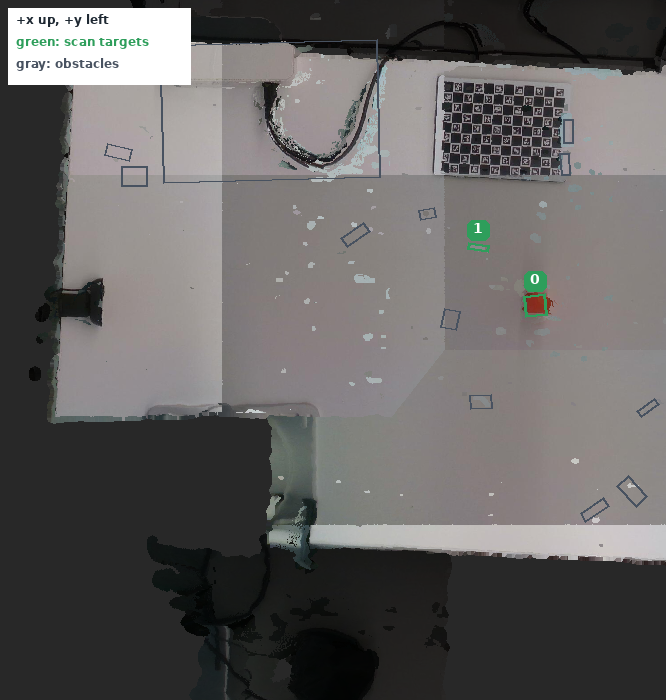
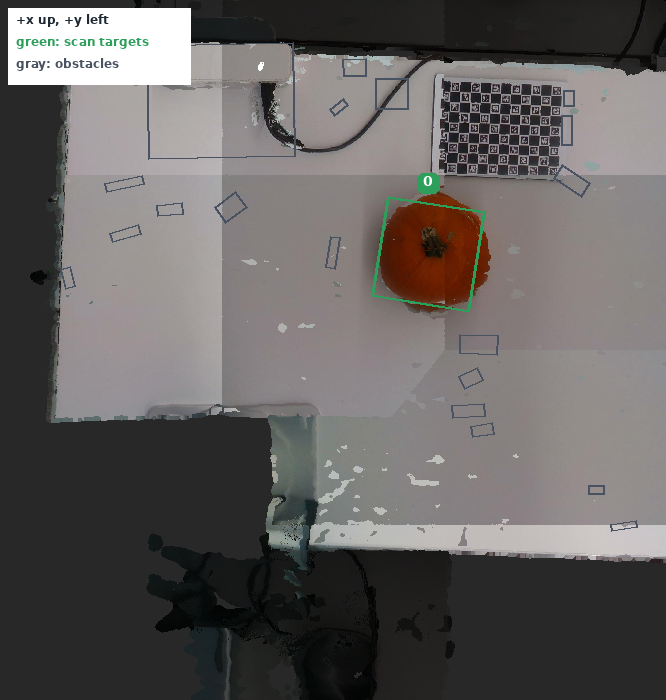
rearranging some of the readme

diff --git a/recon/pipeline.py b/recon/pipeline.py
@@ -913,3 +913,24 @@ def save_mount(config: Config, mount: np.ndarray, source: str) -> Path:
                                 "note": "Camera pose relative to the arm's end (mm). Used for every move and capture."},
                                indent=2) + "\n")
     return path
+
+
+def prune_board_runs(config: Config) -> list[str]:
+    ''' Delete board calibration runs (data/board-*) that no calibration file names as its
+    source: each arm keeps only the run behind its current camera mount, since a new
+    calibration simply replaces the old one. A run with a file named KEEP in it stays
+    (one used by analysis/compare_calibration.py). Returns the names deleted. '''
+    import shutil
+    used = set()
+    for path in config.resolve("calibration").glob("*.json"):
+        try:
+            source = json.loads(path.read_text()).get("source", "")
+        except (OSError, json.JSONDecodeError):
+            continue
+        used.update(word.strip() for word in str(source).split(",") if word.strip().startswith("board-"))
+    deleted = []
+    for folder in sorted(config.resolve(config.data_dir).glob("board-*")):
+        if folder.is_dir() and folder.name not in used and not (folder / "KEEP").exists():
+            shutil.rmtree(folder)
+            deleted.append(folder.name)
+    return deleted

diff --git a/scan.py b/scan.py
@@ -197,6 +197,9 @@ async def board_step(robot: Robot, config: Config, execute: bool, save_mount: bo
             robot.use_camera_mount(np.array(result["board_mount"]))  # for the rest of this run too (the survey)
             robot.ignore_saved_calibration = False  # the saved one is now this run's
             log.info("Saved as the camera mount for all moves and captures: %s", path)
+            deleted = pipeline.prune_board_runs(config)  # older runs: their calibrations are replaced
+            if deleted:
+                log.info("Deleted %d older board run(s) no calibration uses: %s", len(deleted), ", ".join(deleted))
     return result
 
 

diff --git a/README.md b/README.md
@@ -95,6 +95,11 @@ For each object, it plans a set of camera viewpoints and checks that each one is
 
 ---
 
+<p align="center">
+  <img src="media/images/progression_vid_pumpkin.gif" alt="Time-lapse of the pumpkin's scan, view by view: on the left, the color image of each view; in the middle, the point cloud growing as views are added; on the right, the cumulative open mesh" width="1000">
+  <br><sub><b>REAL DATA.</b> The pumpkin's scan (44 views, 10 frames each), played back view by view</sub>
+</p>
+
 ## Table of Contents
 
 1. [Problem Statement and Goals](#1-problem-statement-and-goals) (including [Breaking Down the Problem](#11-breaking-down-the-problem))
@@ -395,8 +400,8 @@ The same object usually shows up in several survey views. Each object is taken f
 **A numbered map.** Each survey also saves `survey_map.png` in its session folder and shows it in the live viewer. It's the table seen from straight above, put together from the survey views (each 1.5mm cell takes its color from the view looking most directly down on it), with each scan target boxed in green and numbered the same way the terminal lists it, and each obstacle outlined in gray.
 
 <p align="center">
-  <img src="media/images/survey_map.png" alt="The table from above: the calibration board at the top, cables, the orange prism boxed in green as target 0, a small gray thing as target 1, and small obstacles outlined in gray" width="600">
-  <br><sub><b>REAL DATA.</b> A survey's map of the table: +x up, +y left</sub>
+  <img src="media/images/survey_map.png" alt="The table from above: the calibration board and a cable at the top, the pumpkin boxed in green as target 0 in the middle, and small specks of bad depth outlined in gray as obstacles" width="600">
+  <br><sub><b>REAL DATA.</b> The pumpkin scan's survey map of the table: +x up, +y left</sub>
 </p>
 
 #### Everything else is an obstacle
@@ -558,7 +563,7 @@ The planner keeps the gripper off the table using the gripper's collision model,
 - OpenCV: [ChArUco detection tutorial](https://docs.opencv.org/4.x/df/d4a/tutorial_charuco_detection.html), [calib3d module (solvePnP, calibrateHandEye)](https://docs.opencv.org/4.x/d9/d0c/group__calib3d.html)
 - calib.io: [calibration pattern generator](https://calib.io/pages/camera-calibration-pattern-generator) (ChArUco boards, DICT_4X4 to DICT_7X7)
 - Intel RealSense: [tuning depth cameras for best performance](https://dev.realsenseai.com/docs/tuning-depth-cameras-for-best-performance/) (depth accuracy vs. distance, edge effects)
-- Viam's `viam:camera-calibration` module (ChArUco pose tracker and hand-eye service), suggested for comparison ([§13.4](#134-calibration-that-just-works))
+- Viam's `viam:camera-calibration` module (ChArUco pose tracker and hand-eye service), suggested for comparison ([§13.4](#134-easier-calibration-with-or-without-the-charuco-board))
 
 #### My solver vs. Viam's camera-calibration module
 
@@ -822,11 +827,6 @@ To answer it, I rebuilt the full scans from 1, 2, 4, 8, 16, 32 and all of their 
 
 <p align="center">
   <img src="media/images/progression_green_cylinder.png" alt="The green cylinder from 1, 8, 16, 32 and 50 views, in three rows: the cumulative point cloud, the open mesh, and the watertight mesh, measured (blue) on every side from 16 views on" width="1000">
-</p>
-
-<p align="center">
-  <img src="media/images/progression_vid_pumpkin.gif" alt="Time-lapse of the pumpkin's scan, view by view: on the left, the color image of each view; in the middle, the point cloud growing as views are added; on the right, the cumulative open mesh" width="1000">
-  <br><sub><b>REAL DATA.</b> The pumpkin's scan (44 views, 10 frames each), played back view by view</sub>
 </p>
 
 **Why a few views leave holes.** A single view keeps everything it saw, so the 1-view mesh is the best that one view can give. From 2 views on, a mesh keeps only surface that at least 2 of its views measured, and views from very different directions share little surface: 2 views measure almost nothing, and a few views leave the open mesh full of holes until the views overlap. (`--min-views` changes the 2-view rule for every subset.)
@@ -1386,7 +1386,7 @@ The scan currently visits fixed rings of viewpoints. A next-best-view planner wo
 - **Prioritize** with a vision-language model (or a [vision-language-action](https://en.wikipedia.org/wiki/Vision-language-action_model) (VLA) policy: a model that takes camera images and a task described in words and outputs the robot's actions directly): which objects matter for the task, which are likely to be hard (shiny, transparent, thin, hollow), and which sides are probably still unseen. A model's uncertainty, or the mesh's measured share, can say which object needs more views next.
 - **Use semantic priors** where the camera can't see. A mug has a handle and a hollow inside, and a box has flat, square faces. For known types of objects, priors like these could replace the generic straight-wall prior ([§5.8](#measured-vs-filled-in-the-open-and-watertight-meshes)).
 
-### 13.4 Calibration that just works
+### 13.4 Easier calibration, with or without the ChArUco board
 
 - **Board-based:** run `calibrate-board` routinely (or on a schedule), and keep its mount, depth model and intrinsics check with each session.
 - **Known objects:** a caliper-measured object, such as the green cylinder, is itself a calibration target. The depth model could be fit so that the scanned object matches its known size.
@@ -1437,7 +1437,7 @@ A first version of this is in the code (`recon/relocate.py`), turned off (`[relo
 - measure the gripper's opening and jaw direction;
 - test pick and place on its own before turning relocation on during scans.
 
-### 13.9 Also
+### 13.9 Other improvements
 
 - **More kinds of objects.** So far I've scanned blocks, cylinders, a pumpkin, a mug, a cup, and 3D-printed objects; next could be a can, a water bottle, or a roll of tape.
 - **Colored meshes.** Vertex colors are already fused; texture maps would need colored ICP and better color calibration.
